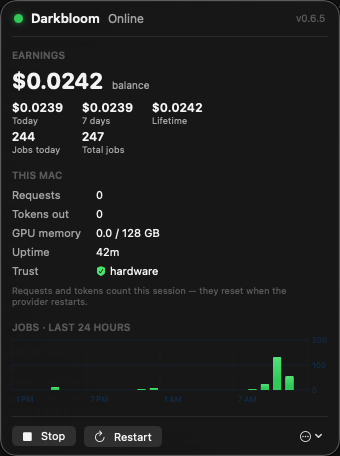
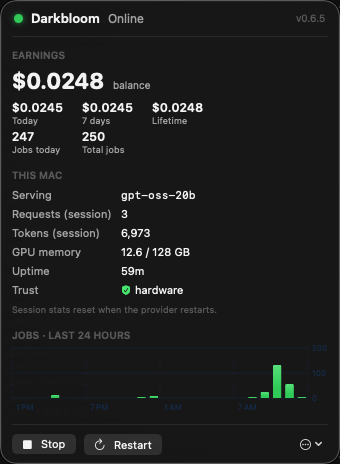
fix: label session-scoped counters explicitly
Requests/tokens rows now read "(session)" inline instead of relying on a
footnote, so it's obvious they reset on provider restart. Refreshes the
README screenshot.

diff --git a/Sources/DarkbloomMenu/MenuView.swift b/Sources/DarkbloomMenu/MenuView.swift
@@ -121,8 +121,8 @@ struct MenuView: View {
                         row("Warm", warm.joined(separator: ", "), mono: true)
                     }
                     if let s = d.stats {
-                        row("Requests", Fmt.count(s.requestsServed))
-                        row("Tokens out", Fmt.count(s.tokensGenerated))
+                        row("Requests (session)", Fmt.count(s.requestsServed))
+                        row("Tokens (session)", Fmt.count(s.tokensGenerated))
                     }
                     if let c = d.capacity {
                         row("GPU memory", String(format: "%.1f / %.0f GB", c.gpuMemoryActiveGb, c.totalMemoryGb))
@@ -133,7 +133,7 @@ struct MenuView: View {
                             Text("Trust")
                                 .font(.system(size: 11))
                                 .foregroundStyle(.secondary)
-                                .frame(width: 80, alignment: .leading)
+                                .frame(width: 105, alignment: .leading)
                             Image(systemName: t.trustLevel == "hardware" ? "checkmark.shield.fill" : "shield")
                                 .font(.system(size: 10))
                                 .foregroundStyle(t.trustLevel == "hardware" ? .green : .orange)
@@ -141,7 +141,7 @@ struct MenuView: View {
                                 .font(.system(size: 11))
                         }
                     }
-                    Text("Requests and tokens count this session — they reset when the provider restarts.")
+                    Text("Session stats reset when the provider restarts.")
                         .font(.system(size: 9))
                         .foregroundStyle(.tertiary)
                         .padding(.top, 2)
@@ -309,7 +309,7 @@ struct MenuView: View {
             Text(label)
                 .font(.system(size: 11))
                 .foregroundStyle(.secondary)
-                .frame(width: 80, alignment: .leading)
+                .frame(width: 105, alignment: .leading)
             Text(value)
                 .font(.system(size: 11, design: mono ? .monospaced : .default))
                 .lineLimit(2)